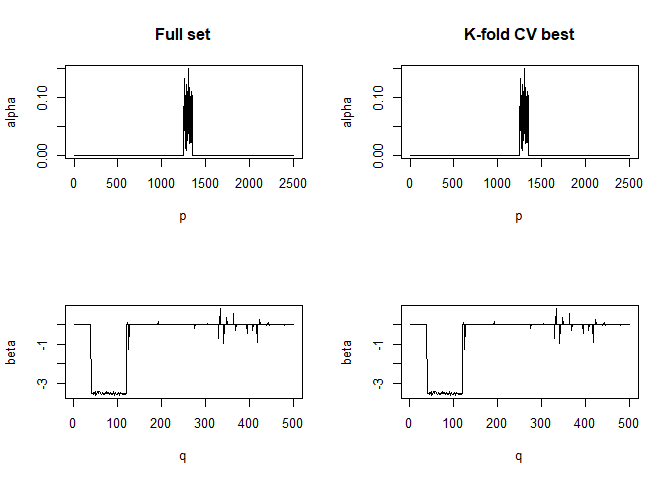
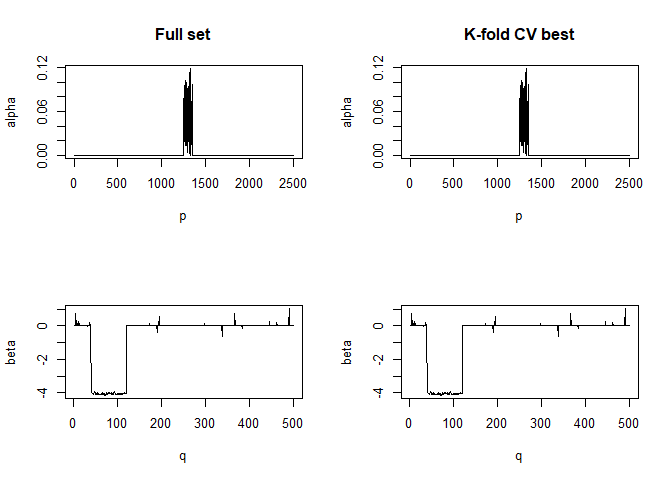
fixes in coordination of 3x4 plot truth toscca pma

diff --git a/README.md b/README.md
@@ -22,8 +22,7 @@ devtools::install_github("nuria-sv/toscca")
 
 This is a basic example which shows you how to reproduce the analysis
 described in “A framework for interpretation and testing of sparse
-canonical correlations”. The [algorithm]("/example/algorithm.png") for the functions is:
-![algo](algorithm.png "algo")
+canonical correlations”.
 
 ## Simulations
 
@@ -53,7 +52,7 @@ cca_toscca  = toscca::toscca(X, Y, nonz_x, nonz_y, K, init, combination = FALSE)
 #>  For component K =  1 : 
 #> | . . . . . . . . . . . . . . . . . . . . . . . . . . . . . . . . . . . . . .  | 100 %          Common convergence error: 0 & Iterations: 4 
 #> k-fold cv max. cancor 
-#>             0.9999408 
+#>             0.9999568 
 #> 
 #>  ........................................ 
 #>  # nonzero A: 100
@@ -66,9 +65,9 @@ cca_toscca  = toscca::toscca(X, Y, nonz_x, nonz_y, K, init, combination = FALSE)
     #> 
     #> __________________________________________ 
     #>  For component K =  2 : 
-    #> | . . . . . . . . . . . . . . . . . . . . . . . . . . . . . . . . . . . . . .  | 100 %          Common convergence error: 0 & Iterations: 8 
+    #> | . . . . . . . . . . . . . . . . . . . . . . . . . . . . . . . . . . . . . .  | 100 %          Common convergence error: 0 & Iterations: 17 
     #> k-fold cv max. cancor 
-    #>             0.9785591 
+    #>             0.9718569 
     #> 
     #>  ........................................ 
     #>  # nonzero A: 100
@@ -80,9 +79,9 @@ cca_toscca  = toscca::toscca(X, Y, nonz_x, nonz_y, K, init, combination = FALSE)
     #> 
     #> __________________________________________ 
     #>  For component K =  3 : 
-    #> | . . . . . . . . . . . . . . . . . . . . . . . . . . . . . . . . . . . . . .  | 100 %          Common convergence error: 0 & Iterations: 21 
+    #> | . . . . . . . . . . . . . . . . . . . . . . . . . . . . . . . . . . . . . .  | 100 %          Common convergence error: 0.0039 & Iterations: 21 
     #> k-fold cv max. cancor 
-    #>             0.9425879 
+    #>             0.1956175 
     #> 
     #>  ........................................ 
     #>  # nonzero A: 100
@@ -94,9 +93,9 @@ cca_toscca  = toscca::toscca(X, Y, nonz_x, nonz_y, K, init, combination = FALSE)
     #> 
     #> __________________________________________ 
     #>  For component K =  4 : 
-    #> | . . . . . . . . . . . . . . . . . . . . . . . . . . . . . . . . . . . . . .  | 100 %          Common convergence error: 0.00294 & Iterations: 21 
+    #> | . . . . . . . . . . . . . . . . . . . . . . . . . . . . . . . . . . . . . .  | 100 %          Common convergence error: 0.00011 & Iterations: 21 
     #> k-fold cv max. cancor 
-    #>             0.1400026 
+    #>              0.886481 
     #> 
     #>  ........................................ 
     #>  # nonzero A: 100
@@ -116,8 +115,8 @@ perm_toscca = perm.toscca(X, Y, nonz_x, nonz_y, K = K, init, draws = 100, cancor
     #> Empirical p-values:
     #> 0
     #> 0
+    #> 0.08
     #> 0
-    #> 0.26
     #> NULL
 
 We repeat the analysis using the Penalised Matrix Analysis approach from
@@ -129,7 +128,7 @@ compare to our models’ performance.
 pma_lambda = PMA::CCA.permute(X, Y, typex = "standard", typez = "standard")
 cca_pma = CCA_pma_random(X, Y, K = 4, typex = "standard", typez = "standard", start = "uniform", 
                          penaltyx = pma_lambda$bestpenaltyx, pma_lambda$bestpenaltyz)
-#> 123456789101112131415
+#> 1234567891011121314
 #> 123456789101112131415
 #> 123456789101112131415
 #> 123456789101112131415
@@ -148,7 +147,7 @@ selected once the signal has been retrieved.
     #>  For component K =  1 : 
     #> | . . . . . . . . . . . . . . . . . . . . . . . . . . . . . . . . . . . . . .  | 100 %          Common convergence error: 0 & Iterations: 4 
     #> k-fold cv max. cancor 
-    #>             0.9997412 
+    #>             0.9998458 
     #> 
     #>  ........................................ 
     #>  # nonzero A: 10
@@ -157,9 +156,9 @@ selected once the signal has been retrieved.
     #> 
     #> __________________________________________ 
     #>  For component K =  2 : 
-    #> | . . . . . . . . . . . . . . . . . . . . . . . . . . . . . . . . . . . . . .  | 100 %          Common convergence error: 0 & Iterations: 13 
+    #> | . . . . . . . . . . . . . . . . . . . . . . . . . . . . . . . . . . . . . .  | 100 %          Common convergence error: 0.00011 & Iterations: 21 
     #> k-fold cv max. cancor 
-    #>             0.9074885 
+    #>             0.1217369 
     #> 
     #>  ........................................ 
     #>  # nonzero A: 10
@@ -170,7 +169,7 @@ selected once the signal has been retrieved.
     #>  For component K =  1 : 
     #> | . . . . . . . . . . . . . . . . . . . . . . . . . . . . . . . . . . . . . .  | 100 %          Common convergence error: 0 & Iterations: 4 
     #> k-fold cv max. cancor 
-    #>             0.9998712 
+    #>             0.9998968 
     #> 
     #>  ........................................ 
     #>  # nonzero A: 60
@@ -181,7 +180,7 @@ selected once the signal has been retrieved.
     #>  For component K =  2 : 
     #> | . . . . . . . . . . . . . . . . . . . . . . . . . . . . . . . . . . . . . .  | 100 %          Common convergence error: 0 & Iterations: 10 
     #> k-fold cv max. cancor 
-    #>             0.9304139 
+    #>             0.9526918 
     #> 
     #>  ........................................ 
     #>  # nonzero A: 60
@@ -190,9 +189,9 @@ selected once the signal has been retrieved.
     #> 
     #> __________________________________________ 
     #>  For component K =  1 : 
-    #> | . . . . . . . . . . . . . . . . . . . . . . . . . . . . . . . . . . . . . .  | 100 %          Common convergence error: 0 & Iterations: 4 
+    #> | . . . . . . . . . . . . . . . . . . . . . . . . . . . . . . . . . . . . . .  | 100 %          Common convergence error: 0 & Iterations: 5 
     #> k-fold cv max. cancor 
-    #>             0.9999198 
+    #>             0.9999254 
     #> 
     #>  ........................................ 
     #>  # nonzero A: 110
@@ -201,9 +200,9 @@ selected once the signal has been retrieved.
     #> 
     #> __________________________________________ 
     #>  For component K =  2 : 
-    #> | . . . . . . . . . . . . . . . . . . . . . . . . . . . . . . . . . . . . . .  | 100 %          Common convergence error: 0 & Iterations: 16 
+    #> | . . . . . . . . . . . . . . . . . . . . . . . . . . . . . . . . . . . . . .  | 100 %          Common convergence error: 0 & Iterations: 21 
     #> k-fold cv max. cancor 
-    #>             0.9453699 
+    #>               0.95789 
     #> 
     #>  ........................................ 
     #>  # nonzero A: 110
@@ -214,7 +213,7 @@ selected once the signal has been retrieved.
     #>  For component K =  1 : 
     #> | . . . . . . . . . . . . . . . . . . . . . . . . . . . . . . . . . . . . . .  | 100 %          Common convergence error: 0 & Iterations: 4 
     #> k-fold cv max. cancor 
-    #>             0.9998145 
+    #>             0.9998552 
     #> 
     #>  ........................................ 
     #>  # nonzero A: 160
@@ -223,56 +222,12 @@ selected once the signal has been retrieved.
     #> 
     #> __________________________________________ 
     #>  For component K =  2 : 
-    #> | . . . . . . . . . . . . . . . . . . . . . . . . . . . . . . . . . . . . . .  | 100 %          Common convergence error: 2e-05 & Iterations: 21 
+    #> | . . . . . . . . . . . . . . . . . . . . . . . . . . . . . . . . . . . . . .  | 100 %          Common convergence error: 0 & Iterations: 17 
     #> k-fold cv max. cancor 
-    #>             0.9083293 
+    #>             0.9470117 
     #> 
     #>  ........................................ 
     #>  # nonzero A: 160
-    #>  # nonzero B: 10
-    #>  ........................................ 
-    #> 
-    #> __________________________________________ 
-    #>  For component K =  1 : 
-    #> | . . . . . . . . . . . . . . . . . . . . . . . . . . . . . . . . . . . . . .  | 100 %          Common convergence error: 0 & Iterations: 4 
-    #> k-fold cv max. cancor 
-    #>             0.9998711 
-    #> 
-    #>  ........................................ 
-    #>  # nonzero A: 210
-    #>  # nonzero B: 50
-    #>  ........................................ 
-    #> 
-    #> __________________________________________ 
-    #>  For component K =  2 : 
-    #> | . . . . . . . . . . . . . . . . . . . . . . . . . . . . . . . . . . . . . .  | 100 %          Common convergence error: 0.00127 & Iterations: 21 
-    #> k-fold cv max. cancor 
-    #>             0.2498846 
-    #> 
-    #>  ........................................ 
-    #>  # nonzero A: 210
-    #>  # nonzero B: 10
-    #>  ........................................ 
-    #> 
-    #> __________________________________________ 
-    #>  For component K =  1 : 
-    #> | . . . . . . . . . . . . . . . . . . . . . . . . . . . . . . . . . . . . . .  | 100 %          Common convergence error: 0 & Iterations: 4 
-    #> k-fold cv max. cancor 
-    #>               0.99971 
-    #> 
-    #>  ........................................ 
-    #>  # nonzero A: 260
-    #>  # nonzero B: 50
-    #>  ........................................ 
-    #> 
-    #> __________________________________________ 
-    #>  For component K =  2 : 
-    #> | . . . . . . . . . . . . . . . . . . . . . . . . . . . . . . . . . . . . . .  | 100 %          Common convergence error: 0 & Iterations: 14 
-    #> k-fold cv max. cancor 
-    #>              0.925047 
-    #> 
-    #>  ........................................ 
-    #>  # nonzero A: 260
     #>  # nonzero B: 10
     #>  ........................................ 
     #> 
@@ -280,7 +235,51 @@ selected once the signal has been retrieved.
     #>  For component K =  1 : 
     #> | . . . . . . . . . . . . . . . . . . . . . . . . . . . . . . . . . . . . . .  | 100 %          Common convergence error: 0 & Iterations: 5 
     #> k-fold cv max. cancor 
-    #>             0.9996003 
+    #>             0.9997389 
+    #> 
+    #>  ........................................ 
+    #>  # nonzero A: 210
+    #>  # nonzero B: 50
+    #>  ........................................ 
+    #> 
+    #> __________________________________________ 
+    #>  For component K =  2 : 
+    #> | . . . . . . . . . . . . . . . . . . . . . . . . . . . . . . . . . . . . . .  | 100 %          Common convergence error: 0 & Iterations: 17 
+    #> k-fold cv max. cancor 
+    #>             0.9428045 
+    #> 
+    #>  ........................................ 
+    #>  # nonzero A: 210
+    #>  # nonzero B: 10
+    #>  ........................................ 
+    #> 
+    #> __________________________________________ 
+    #>  For component K =  1 : 
+    #> | . . . . . . . . . . . . . . . . . . . . . . . . . . . . . . . . . . . . . .  | 100 %          Common convergence error: 0 & Iterations: 6 
+    #> k-fold cv max. cancor 
+    #>             0.9995017 
+    #> 
+    #>  ........................................ 
+    #>  # nonzero A: 260
+    #>  # nonzero B: 50
+    #>  ........................................ 
+    #> 
+    #> __________________________________________ 
+    #>  For component K =  2 : 
+    #> | . . . . . . . . . . . . . . . . . . . . . . . . . . . . . . . . . . . . . .  | 100 %          Common convergence error: 0 & Iterations: 19 
+    #> k-fold cv max. cancor 
+    #>             0.9005219 
+    #> 
+    #>  ........................................ 
+    #>  # nonzero A: 260
+    #>  # nonzero B: 10
+    #>  ........................................ 
+    #> 
+    #> __________________________________________ 
+    #>  For component K =  1 : 
+    #> | . . . . . . . . . . . . . . . . . . . . . . . . . . . . . . . . . . . . . .  | 100 %          Common convergence error: 0 & Iterations: 4 
+    #> k-fold cv max. cancor 
+    #>             0.9997465 
     #> 
     #>  ........................................ 
     #>  # nonzero A: 310
@@ -291,7 +290,7 @@ selected once the signal has been retrieved.
     #>  For component K =  2 : 
     #> | . . . . . . . . . . . . . . . . . . . . . . . . . . . . . . . . . . . . . .  | 100 %          Common convergence error: 0 & Iterations: 12 
     #> k-fold cv max. cancor 
-    #>             0.9180668 
+    #>             0.8801114 
     #> 
     #>  ........................................ 
     #>  # nonzero A: 310
@@ -302,7 +301,7 @@ selected once the signal has been retrieved.
     #>  For component K =  1 : 
     #> | . . . . . . . . . . . . . . . . . . . . . . . . . . . . . . . . . . . . . .  | 100 %          Common convergence error: 0 & Iterations: 4 
     #> k-fold cv max. cancor 
-    #>             0.9994397 
+    #>             0.9997467 
     #> 
     #>  ........................................ 
     #>  # nonzero A: 360
@@ -311,9 +310,9 @@ selected once the signal has been retrieved.
     #> 
     #> __________________________________________ 
     #>  For component K =  2 : 
-    #> | . . . . . . . . . . . . . . . . . . . . . . . . . . . . . . . . . . . . . .  | 100 %          Common convergence error: 0.00176 & Iterations: 21 
+    #> | . . . . . . . . . . . . . . . . . . . . . . . . . . . . . . . . . . . . . .  | 100 %          Common convergence error: 0 & Iterations: 17 
     #> k-fold cv max. cancor 
-    #>             0.3231574 
+    #>             0.8949176 
     #> 
     #>  ........................................ 
     #>  # nonzero A: 360
@@ -425,19 +424,19 @@ third_fourth
 PMA
 </td>
 <td style="text-align:right;">
-0.7257156
+0.7342183
 </td>
 <td style="text-align:right;">
--0.0101011
+-0.0101010
 </td>
 <td style="text-align:right;">
-0.1824523
+0.1649223
 </td>
 <td style="text-align:right;">
-0.1085765
+0.1392179
 </td>
 <td style="text-align:right;">
-0.2992801
+0.2664288
 </td>
 </tr>
 <tr>
@@ -445,19 +444,19 @@ PMA
 TOSCCA
 </td>
 <td style="text-align:right;">
--0.0177369
+-0.0178982
 </td>
 <td style="text-align:right;">
-0.0098773
+-0.0065528
 </td>
 <td style="text-align:right;">
-0.0285827
+-0.0106772
 </td>
 <td style="text-align:right;">
-0.0056514
+0.0028085
 </td>
 <td style="text-align:right;">
-0.0018898
+-0.0014454
 </td>
 </tr>
 </tbody>
@@ -487,16 +486,16 @@ Autocorrelation between components
 PMA
 </td>
 <td style="text-align:right;">
-0.0016451
+0.0017984
 </td>
 <td style="text-align:right;">
-0.0018049
+0.0019119
 </td>
 <td style="text-align:right;">
-0.0040195
+0.0042579
 </td>
 <td style="text-align:right;">
-0.0058418
+0.0063210
 </td>
 </tr>
 <tr>
@@ -504,16 +503,16 @@ PMA
 TOSCCA
 </td>
 <td style="text-align:right;">
-0.0059186
+0.0066797
 </td>
 <td style="text-align:right;">
-0.0064087
+0.0066534
 </td>
 <td style="text-align:right;">
-0.0075012
+0.0068747
 </td>
 <td style="text-align:right;">
-0.0079804
+0.0075906
 </td>
 </tr>
 </tbody>
